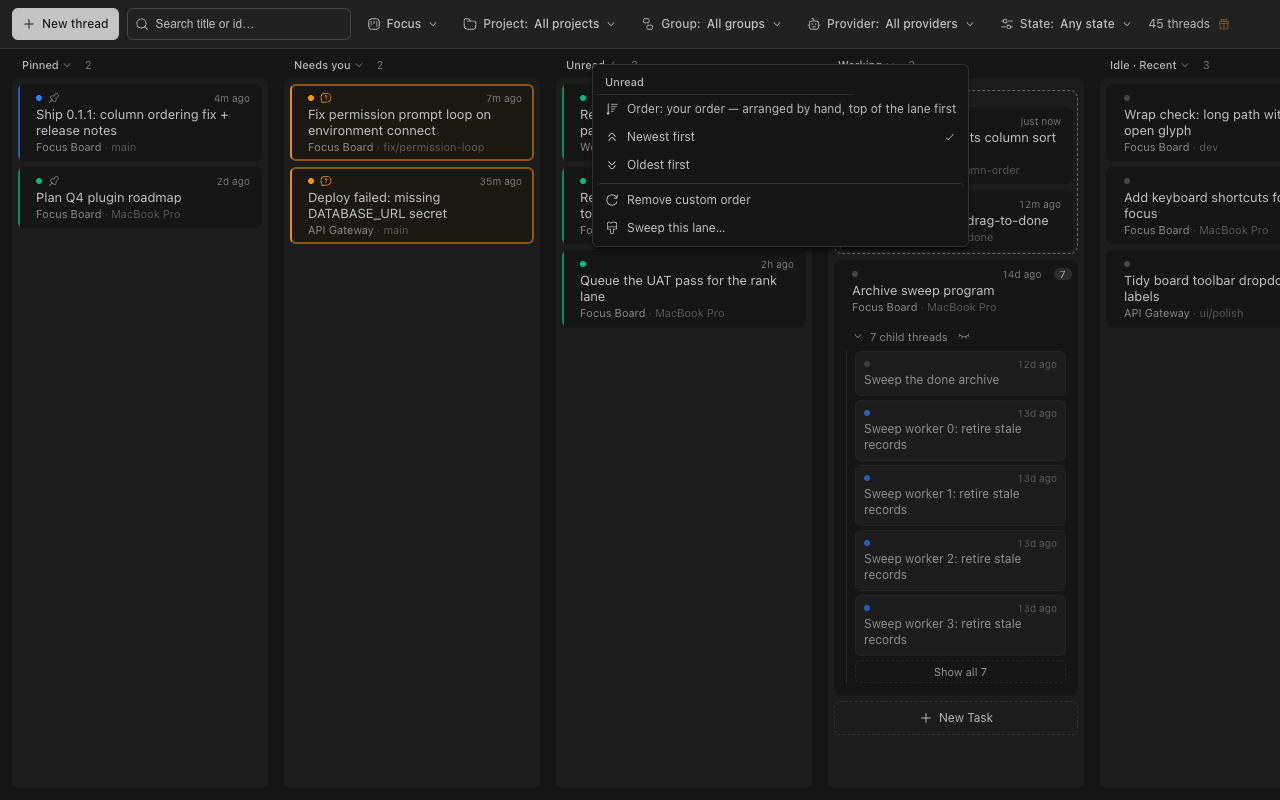
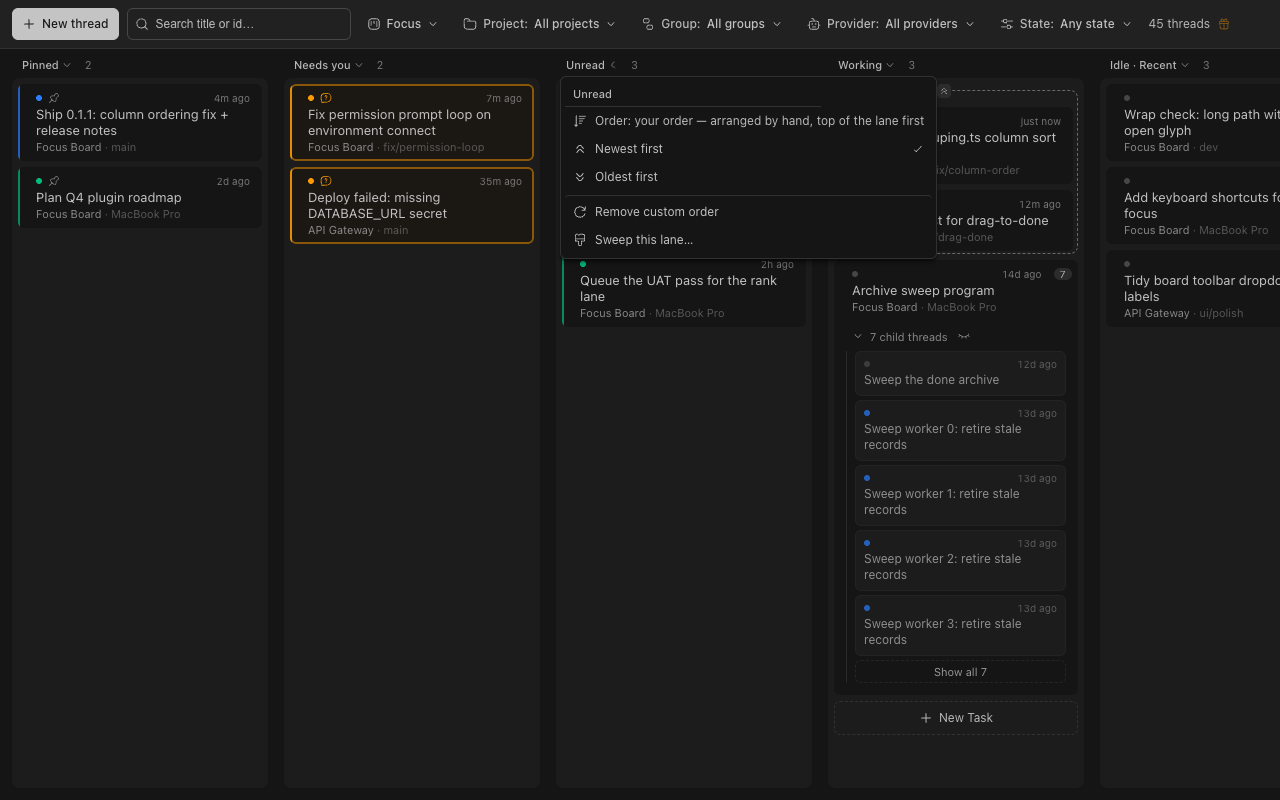
The lane menu drops anchored under its trigger, like the View dropdown
The operator's third pass on the lane menu: the popup was offset (it
opened at the click pixel, a context-menu idiom); every dropdown on the
board anchors under its trigger. The name+caret click now anchors the
menu left-aligned with the pair, 4px below it — the View dropdown's
geometry — and the shared menu shell's viewport clamp keeps the
far-right lanes on screen.

Red-first: the anchor test (a stubbed trigger box, clicked; the menu's
left/top must be the box's edge) ran failing against the
pointer-following head; the file is 19/19 after. Frames and the UAT
report re-shot on this head.

Changed region(s): [[0.4375, 0.0938, 0.75, 0.3125], [0.7188, 0.25, 0.75, 0.3125], [0.6562, 0.0625, 0.6875, 0.0938]]

diff --git a/components/board.tsx b/components/board.tsx
@@ -3097,7 +3097,18 @@ export function Board({
                         // never open a menu over the card being dragged.
                         if (touchDragArmed()) return;
                         event.stopPropagation();
-                        setLaneMenu({ columnId: column.id, x: event.clientX, y: event.clientY });
+                        // Anchored, not pointer-following: the menu drops
+                        // under the name+caret pair, left-aligned with it
+                        // (the View dropdown's geometry — the operator's
+                        // "not offset" pass), whatever pixel the click
+                        // landed on. The shell's own viewport clamp keeps
+                        // the far-right lanes on screen.
+                        const box = event.currentTarget.getBoundingClientRect();
+                        setLaneMenu({
+                          columnId: column.id,
+                          x: box.left,
+                          y: box.bottom + 4,
+                        });
                       }}
                       className="flex min-w-0 items-center gap-0.5 truncate rounded-sm text-[11px] font-medium transition-colors hover:text-foreground focus:outline-none focus-visible:ring-2 focus-visible:ring-ring"
                     >

diff --git a/tests/lane-header-menu.test.tsx b/tests/lane-header-menu.test.tsx
@@ -204,6 +204,20 @@ describe("lane header: the per-lane menu", () => {
     expect(oldest.getAttribute("aria-checked")).toBe("true");
   });
 
+  it("the menu anchors under its trigger, the way the View dropdown does", () => {
+    renderBoard(twoUnread, { onLaneOrderDirection: vi.fn() });
+    const trigger = laneMenuTrigger("unread");
+    // jsdom rects are 0x0; give the name+caret pair a real box so the
+    // anchor math is honest.
+    trigger.getBoundingClientRect = () =>
+      ({ left: 200, top: 50, right: 260, bottom: 70, width: 60, height: 20 }) as DOMRect;
+    fireEvent.click(trigger);
+    const menu = screen.getByRole("menu", { name: "Lane actions" });
+    // Left-aligned with the trigger's left edge, a dropdown's 4px below it.
+    expect(menu.style.left).toBe("200px");
+    expect(menu.style.top).toBe("74px");
+  });
+
   it("Remove custom order performs the clear write and closes the menu", () => {
     const onRankClear = vi.fn();
     const rankStore: RankStore = { "status:unread": ["thr_u2"] };

diff --git a/docs/test-coverage-matrix.md b/docs/test-coverage-matrix.md
@@ -137,7 +137,7 @@ happy-path coverage suffices except where a cell is filled anyway.
 | Column rank order: pure model (`lib/rank.ts` wire/preview: parse / applyMove / appendTo / moveTargetFor / compareByRank, plus the optimistic preview `applyMoveVisible`; `lib/rank-fractions.ts` storage: per-card fractions, the shared `applyRankMoveFractions` op) | low | auto (`tests/rank.test.ts`; `tests/rank-fraction-model.test.ts` — dual-shape parse (legacy list converts losslessly, order preserved; malformed fraction rows throw — fail loud, NaN/0/1/out-of-range/Infinity rejected; `__proto__` own key survives both shapes), the anchor-fresh move mints only the moved card's fragment, the anti-rewrite guarantee (a ranked head card keeps its fraction whatever the client's view claimed), the unit block's fresh internal order, the degenerate-mint rebase (order-preserving, display-invariant)) | auto (malformed stored row throws — fail loud; absent row reads as no ranks) | auto (rank survives leave-and-return — a departed card's fraction holds its gap for re-entry; drop on self is a no-op; unranked anchor appends rather than guessing) | auto (cross-lane drag refused; drop below the last card appends) |
 | Column rank order: board wiring (`buildColumns` + `nestUnderParents` honour a stored order) | low | auto (`tests/rank-board.test.ts`) | auto (an order stored for another grouping's same-named column is ignored) | auto (unranked cards keep recency underneath; Pinned/Done not namespaced) | auto (nested family sorts by its parent's column order; urgent children float above every tier) |
 | Column rank order: RPC + store (`rank_list`, `rank_move`, `rank-changed`; storage is per-card fractions, the wire projection stays ordered lists — `lib/rank-fractions.ts`) | medium (board write path; plugin KV) | auto (`tests/rank-rpc.test.ts` — write then read back; publish on change; `tests/rank-fractions.test.ts` — two windows, one with a stale `visibleIds`: the fresh window's arrangement survives the stale drop, the stale write touches only the dropped card's fraction, a legacy list row converts losslessly only when a write lands (rank_list stays read-only); `tests/app-pin-drag-rank.test.tsx` — the outgoing solo drag's `rank_move` args are plain JSON: the `unitIds` member is omitted entirely, never a literal `undefined` the host's input validation rejects as "not a JSON value" (issue #240)) | auto (empty column key rejected; malformed row rejects rather than reverting to recency) | auto (no publish when the move changes nothing — now detected on the derived order, so a stale drop the fresh state already satisfies melts; columns stay independent) | auto (a move preserves every card a prior writer ranked — the non-clobber property, now fragment-level: only the moved card's fraction changes; `toEnd` appends instead of reusing the null top anchor; a move ranks every card above the drop point, so a first drop into an unranked column reorders) |
-| Lane header menu + retired hand-order badge (ruling dl-20261105T165850-324f + the operator's amendments: the name+caret pair is the menu target — a `ChevronDown` after the lane name, before the count, the toolbar's dropdown idiom, `aria-expanded` tracking the open menu; the sort row names the lane's order; the sort pair (Newest first / Oldest first, `menuitemradio` + checked) writes a per-lane recency direction — `laneOrderDirections` (localStorage `focus-board:laneOrderDirections`, cross-window via the storage hook), honored by `buildColumns` (`derivedCompareForDirection`), the nested family rows in `assembleBoard`, and the ranked tail; `rank_clear` (`lib/rank-fractions.ts` `applyRankClearFractions`, shared by the server, the app fake, and the screenshot harness) erases one column's stored hand-order; the sweep pill rides a lane only when eligible cards exist — armed, running, or count > 0 — with manual arming in the menu) | medium (a board write path (the clear) plus three visibility/state laws (trigger, direction pair, pill gating) where a false negative strands a gesture — an unarmed, ineligible lane with no menu door loses manual sweeps; a direction pick that never re-orders is a dead control) | auto (`tests/lane-header-menu.test.tsx` — no marker glyph on any lane while `data-column-ordered` still reports the state; every lane's caret rides inside its h3 with the count reading after the name; the menu opens from the name+caret pair with the sort row (yours vs recency) and the checked pair; a bare header click opens nothing; `aria-expanded` tracks the open menu; Oldest first writes `onLaneOrderDirection(rankKey, "oldest-first")` and closes; an unranked lane offers no remove entry; the pair renders no dead rows without a wired write; a click under an armed touch pickup opens nothing; `tests/lane-order-direction.test.tsx` — the direction compare (pins still lead), buildColumns per rank key (status lanes, the Pinned key, the global `done` key), the ranked tail honoring the direction under the hand order, `assembleBoard`'s nested rows reading the lane's direction, and the tolerant preference parse/stored round-trip; `tests/app-lane-direction.test.tsx` — the full app: the pick re-orders the lane live, persists `{"status:unread":"oldest-first"}`, the reopened menu shows the flipped check, clearing re-orders back, and another window's write hydrates live; `tests/app-rank-clear.test.tsx` — the seeded Unread lane's clear rides the production path, the `rank_clear` RPC lands, the store's key is GONE (not an empty list), `data-column-ordered` flips, and the lane reads recency; `tests/sweep-button.test.tsx` + `tests/board-sweep-select.test.tsx` — a zero-eligible sweepable lane shows no pill (the icon-only zero-propose broom retired) and the menu's Sweep this lane arms the same write the old icon made, while the armed and running pill keeps its seat; `tests/rank-rpc.test.ts` — `rank_clear` erases the column's key, keeps other columns, publishes rank-changed, and no-ops (no write, no publish) on a clean column; `tests/rank-fraction-model.test.ts` — the shared op deletes the key outright and no-ops on a clean store) | auto (`tests/rpc-contract-hardening.test.ts` — `rank_clear` joins the minimal-valid-input sweep and its `__proto__` columnKey is refused end-to-end with the store untouched; the direction preference parse refuses unknown values, non-strings, arrays, and proto keys) | auto (an armed mode keeps the pill even with an empty live selection, so a menu-armed sweep is never strand-able; a lane that cannot sweep offers no sweep entry; the clear never fires where the menu shows no remove entry; the pair hides without a wired write) | UAT (`tests/manual/uat-lane-menu.yaml` — real Chrome on a 390x844 `hasTouch` viewport: a slide from the lane header pans and opens no menu, the name+caret target opens the menu, Remove custom order wipes the seeded lane order (`rank_clear` on record, the lane reads recency), the sweep pill hides where nothing is eligible, and the direction pick persists (the reopened menu checks Oldest first)) |
+| Lane header menu + retired hand-order badge (ruling dl-20261105T165850-324f + the operator's amendments: the name+caret pair is the menu target — a `ChevronDown` after the lane name, before the count, the toolbar's dropdown idiom, `aria-expanded` tracking the open menu, the menu anchoring LEFT-aligned 4px below the pair (the View dropdown's geometry, never pointer-following); the sort row names the lane's order; the sort pair (Newest first / Oldest first, `menuitemradio` + checked) writes a per-lane recency direction — `laneOrderDirections` (localStorage `focus-board:laneOrderDirections`, cross-window via the storage hook), honored by `buildColumns` (`derivedCompareForDirection`), the nested family rows in `assembleBoard`, and the ranked tail; `rank_clear` (`lib/rank-fractions.ts` `applyRankClearFractions`, shared by the server, the app fake, and the screenshot harness) erases one column's stored hand-order; the sweep pill rides a lane only when eligible cards exist — armed, running, or count > 0 — with manual arming in the menu) | medium (a board write path (the clear) plus four visibility/state laws (trigger, anchor, direction pair, pill gating) where a false negative strands a gesture — an unarmed, ineligible lane with no menu door loses manual sweeps; a direction pick that never re-orders is a dead control) | auto (`tests/lane-header-menu.test.tsx` — no marker glyph on any lane while `data-column-ordered` still reports the state; every lane's caret rides inside its h3 with the count reading after the name in document order; the menu opens from the name+caret pair with the sort row (yours vs recency) and the checked pair; the anchor test (a stubbed trigger box, clicked: the popover's left is the box's left edge and its top 4px below the box); a bare header click opens nothing; `aria-expanded` tracks the open menu; Oldest first writes `onLaneOrderDirection(rankKey, "oldest-first")` and closes; an unranked lane offers no remove entry; the pair renders no dead rows without a wired write; a click under an armed touch pickup opens nothing; `tests/lane-order-direction.test.tsx` — the direction compare (pins still lead), buildColumns per rank key (status lanes, the Pinned key, the global `done` key), the ranked tail honoring the direction under the hand order, `assembleBoard`'s nested rows reading the lane's direction, and the tolerant preference parse/stored round-trip; `tests/app-lane-direction.test.tsx` — the full app: the pick re-orders the lane live, persists `{"status:unread":"oldest-first"}`, the reopened menu shows the flipped check, clearing re-orders back, and another window's write hydrates live; `tests/app-rank-clear.test.tsx` — the seeded Unread lane's clear rides the production path, the `rank_clear` RPC lands, the store's key is GONE (not an empty list), `data-column-ordered` flips, and the lane reads recency; `tests/sweep-button.test.tsx` + `tests/board-sweep-select.test.tsx` — a zero-eligible sweepable lane shows no pill (the icon-only zero-propose broom retired) and the menu's Sweep this lane arms the same write the old icon made, while the armed and running pill keeps its seat; `tests/rank-rpc.test.ts` — `rank_clear` erases the column's key, keeps other columns, publishes rank-changed, and no-ops (no write, no publish) on a clean column; `tests/rank-fraction-model.test.ts` — the shared op deletes the key outright and no-ops on a clean store) | auto (`tests/rpc-contract-hardening.test.ts` — `rank_clear` joins the minimal-valid-input sweep and its `__proto__` columnKey is refused end-to-end with the store untouched; the direction preference parse refuses unknown values, non-strings, arrays, and proto keys) | auto (an armed mode keeps the pill even with an empty live selection, so a menu-armed sweep is never strand-able; a lane that cannot sweep offers no sweep entry; the clear never fires where the menu shows no remove entry; the pair hides without a wired write) | UAT (`tests/manual/uat-lane-menu.yaml` — real Chrome on a 390x844 `hasTouch` viewport: a slide from the lane header pans and opens no menu, the name+caret target opens its anchored menu, Remove custom order wipes the seeded lane order (`rank_clear` on record, the lane reads recency), the sweep pill hides where nothing is eligible, and the direction pick persists (the reopened menu checks Oldest first)) |
 | Column rank order: drag + keyboard interaction (insertion line, half-slot anchoring, Alt+Arrow, live region) | low | UAT (`npm run uat` — `tests/manual/uat-rank.yaml`, real HTML5 drag gestures against the mounted app) | UAT (cross-lane drag writes nothing; drop on self writes nothing) | UAT (top half anchors on the card, bottom half lands past it) | UAT (seed on first intent: a fresh lane is draggable and the first drop writes the order; a cross-lane Done drop still calls `done_set`) |
 | Drop on the Pinned lane pins the card (`Board` `onDropPinned` → `actions.setPinned`) | low | auto (`tests/board-drop.test.tsx` — a drop from Unread onto the Pinned section is authorised, reports the dropped id, and writes no rank order; a drop on a pinned card delegates the same way) | auto (a drop on Done still takes `done_set` and never fires the pin handler) | UAT (`tests/manual/uat-rank.yaml`: dropping an unread card on the Pinned lane lands the card in the lane, leaves the stored order untouched, and raises no refusal banner) | skip (single path) |
 | Drop on the Unread column marks unread — and any drop out of the Pinned lane unpins AND parks the pin, reconciled against the cross-surface pin feed (`lib/pin-park.ts` + `app.tsx`: state-change drop handlers and menu compose the lane-exit unpin + park; parked pins restore on Mark Not Done and on any later Mark Unread, including a drag back onto the Unread lane; the native `thread:changed` `pin-state-changed` events retire a park some other writer's pin superseded — bb sidebar, another panel, the CLI — keyed on a fresh pin-state read, no attribution needed; and `read-state-changed` events with a fresh `lastReadAt = null` read (the single-authored deliberate mark-unread) apply the state-truth reaction from any surface: restore parked pin + un-do done; the drag exit's own echo is consumed by a suppression token) | medium (writes bb pin state and done state as reactions to foreign-surface writes) | auto (`tests/board-drop.test.tsx` — a drag from the ranked Pinned lane onto Unread/Done authorises and reports, writing no rank order; `tests/pin-park.test.ts` — fail-loud parse contract + both feed extractors; `tests/pin-park-rpc.test.ts` — park set/clear/refresh round-trip, live-only list) | auto (a same-lane reorder never reaches the drop handlers; already-current state writes are skipped — the gesture is idempotent; the lane exit's own unpin echo never clears its own park, the exit's own read echo never restores it — the suppression token is consumed, not timed; ambient attention-after-last-read unread never publishes and never nulls `lastReadAt`, so parks never fire on thread noise; an explicit board Pin/Unpin clears the park) | manual (drag a Pinned card onto Done; then mark it unread from bb's NATIVE thread menu: the card returns to Pinned, un-done, with the unread dot; menu Mark Not Done on a parked card re-pins it; menu Mark Unread re-pins it too) | manual (menu Mark Done / drop composes done⇒read: the card lands in Done without the unread dot; an un-done card comes back read) |

diff --git a/docs/uat/lane-header-menu.md b/docs/uat/lane-header-menu.md
@@ -1,6 +1,6 @@
 # UAT report
 
-_Generated 2026-11-05T18:22:24.665Z by `npm run uat`._
+_Generated 2026-11-05T19:08:41.305Z by `npm run uat`._
 
 ## lane-header-menu
 
